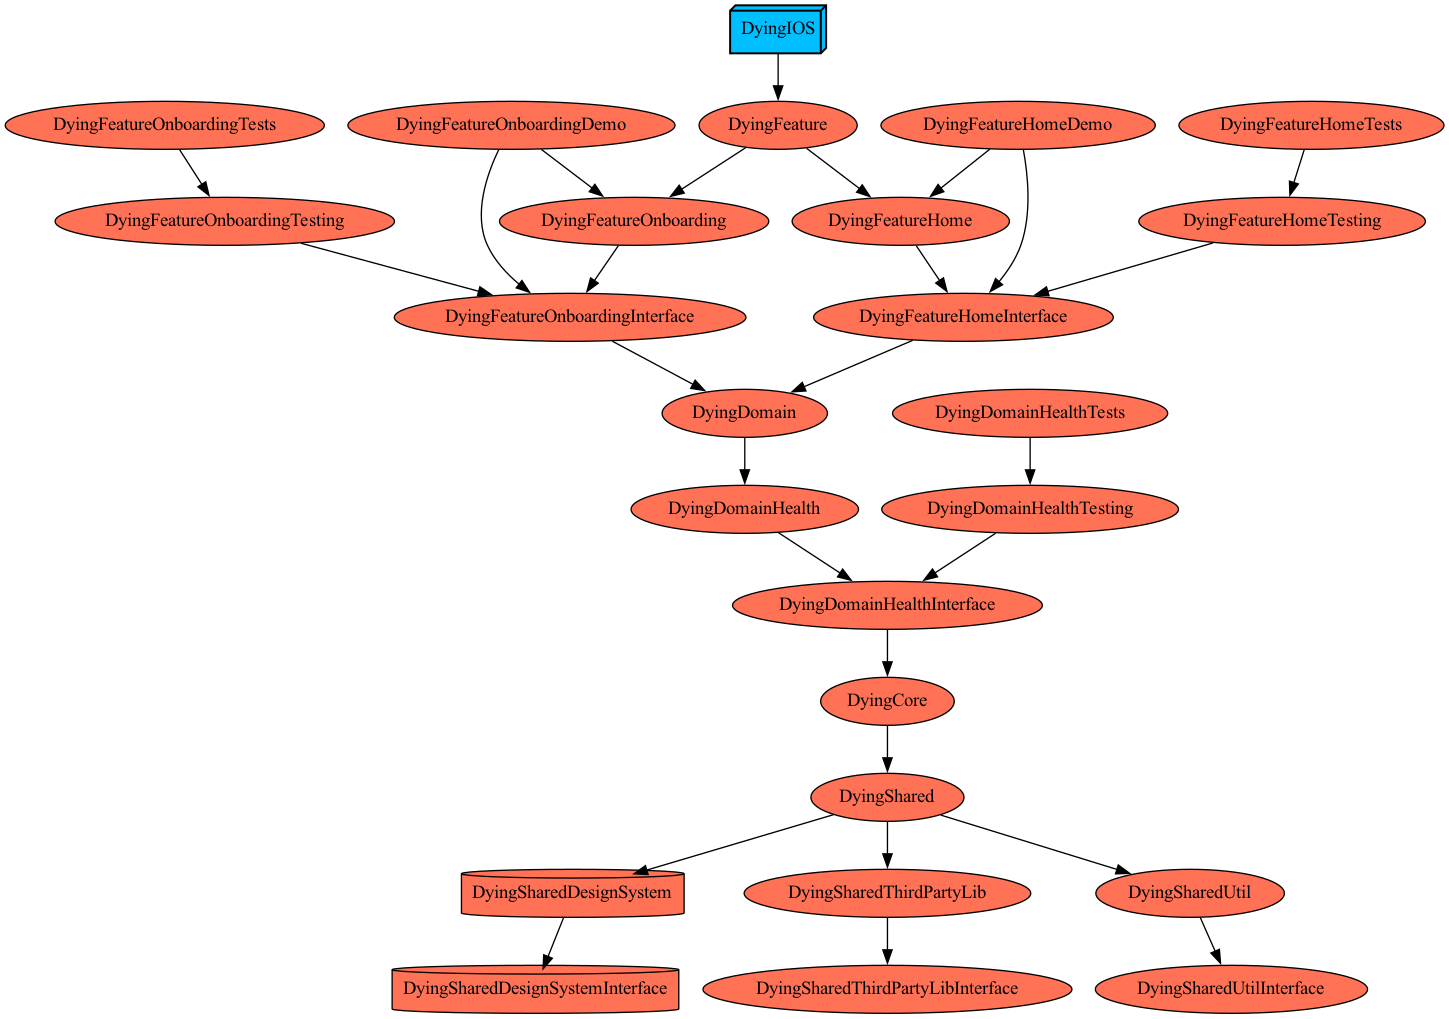
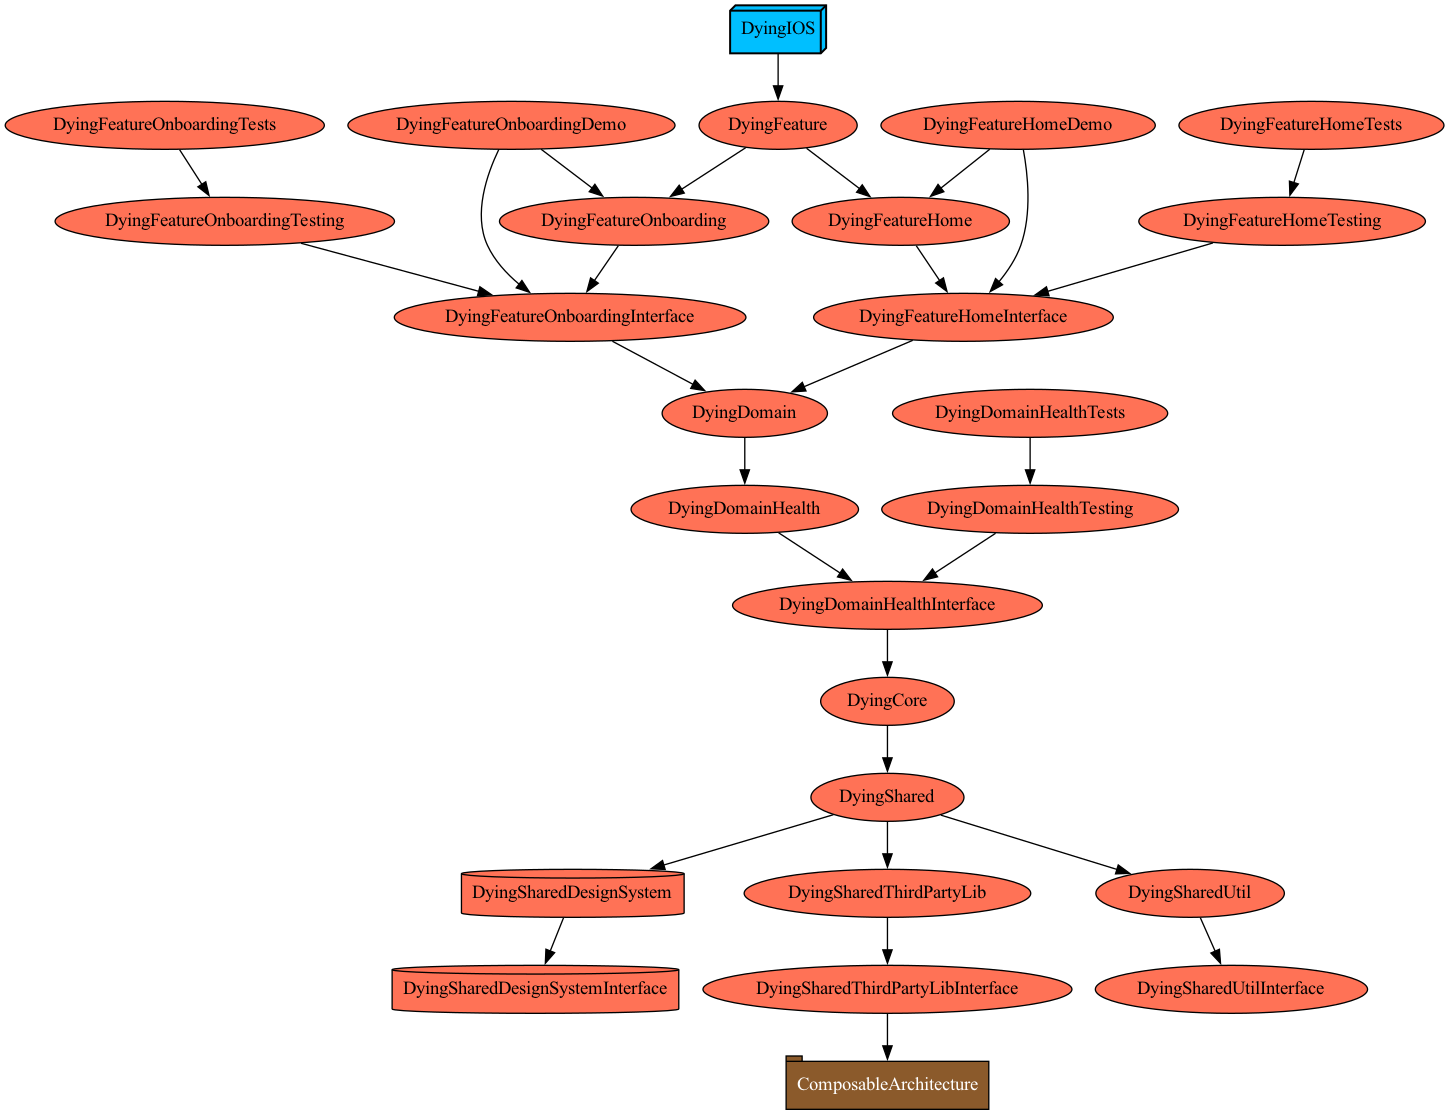
feat: tca 라이브러리 추가

Changed region(s): [[0.0, 0.0, 1.0, 0.9127], [0.2484, 0.9431, 0.9627, 1.0]]

diff --git a/Tuist/Dependencies.swift b/Tuist/Dependencies.swift
@@ -8,7 +8,7 @@
 import ProjectDescription
 
 let SPM = SwiftPackageManagerDependencies([
-    .remote(url: "https://github.com/pointfreeco/swift-composable-architecture", requirement: .upToNextMajor(from: "0.52.0")),
+    .remote(url: "https://github.com/pointfreeco/swift-composable-architecture", requirement: .upToNextMajor(from: "1.0.0")),
     .package(url: "https://github.com/airbnb/swift", from: "1.0.0"),
 ])
 

diff --git a/Plugins/ModulePlugin/ProjectDescriptionHelpers/Target+Module.swift b/Plugins/ModulePlugin/ProjectDescriptionHelpers/Target+Module.swift
@@ -350,6 +350,10 @@ public extension Target {
                     .shared(product, module: module, type: $0)
                 }
                 
+                if module == .ThirdPartyLib && type == .interface {
+                    dependencies += .thirdPartyLibs(product)
+                }
+                
                 return dependencies
             }(),
             settings: .shared(product),

diff --git a/Plugins/ModulePlugin/ProjectDescriptionHelpers/Taget+Extensions/TargetDependency+Module.swift b/Plugins/ModulePlugin/ProjectDescriptionHelpers/Taget+Extensions/TargetDependency+Module.swift
@@ -103,3 +103,13 @@ public extension TargetDependency {
             path: .shared(product, module: module))
     }
 }
+
+// MARK: ThirdPartyLib
+
+public extension [TargetDependency] {
+    static func thirdPartyLibs(_ product: Module.Product) -> Self {
+        switch product {
+        case .Minimal: return []
+        case .Dying: return [.package(product: "ComposableArchitecture")]        }
+    }
+}

diff --git a/Plugins/ModulePlugin/ProjectDescriptionHelpers/Project+Extension/Packages+Module.swift b/Plugins/ModulePlugin/ProjectDescriptionHelpers/Project+Extension/Packages+Module.swift
@@ -44,6 +44,8 @@ public extension [Package] {
 
 public extension [Package] {
     static func shared(_ product: Module.Product) -> Self {
-        return []
+        return [
+            .remote(url: "https://github.com/pointfreeco/swift-composable-architecture", requirement: .upToNextMajor(from: "1.0.0"))
+        ]
     }
 }

diff --git a/Plugins/ModulePlugin/ProjectDescriptionHelpers/Module.swift b/Plugins/ModulePlugin/ProjectDescriptionHelpers/Module.swift
@@ -192,7 +192,6 @@ public extension Module {
                 }
             }
         }
-
     }
 }
 
